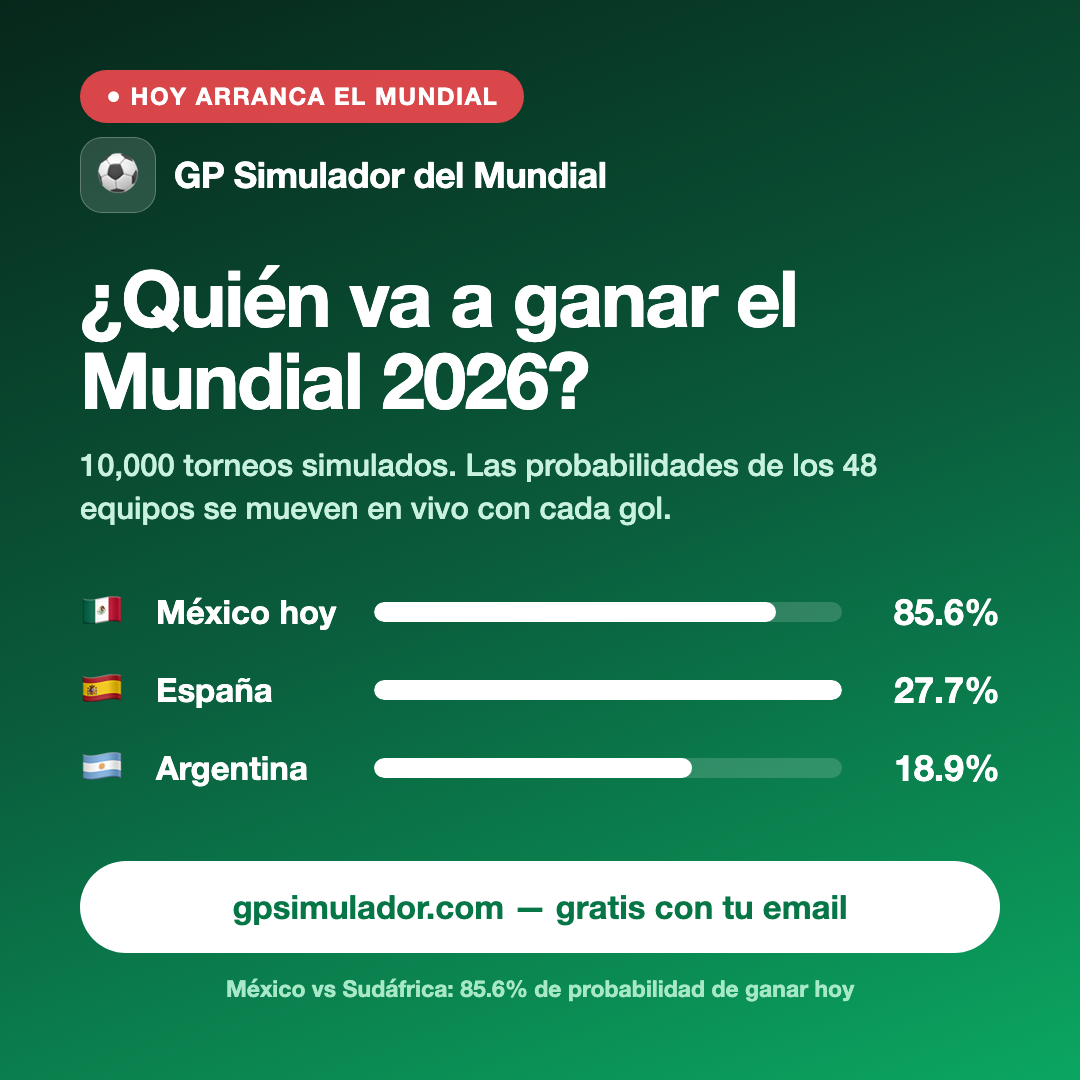
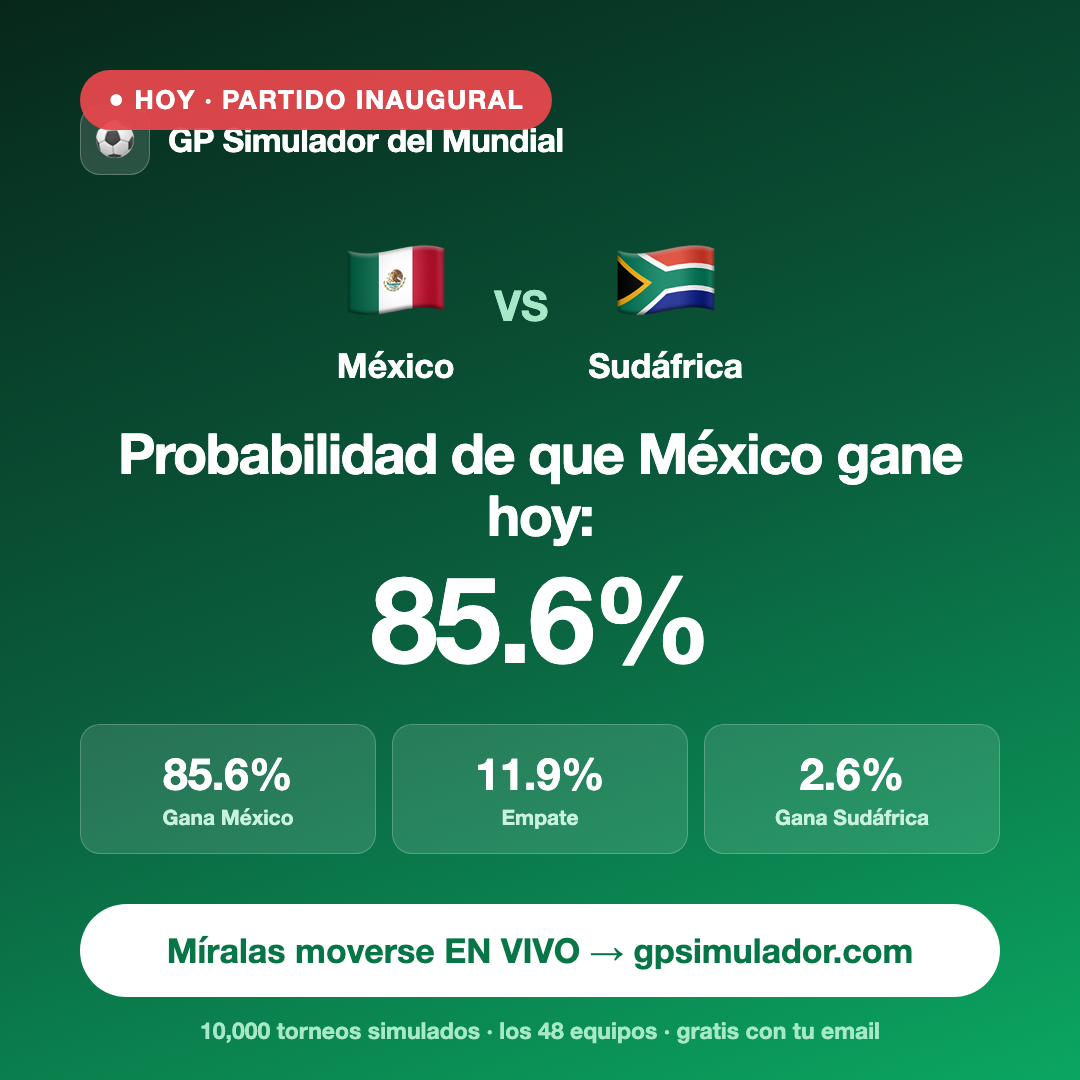
Ad del partido inaugural (MEX vs RSA) + foto de perfil Instagram

diff --git a/ad-card.html b/ad-card.html
@@ -5,37 +5,42 @@ body { width: 1080px; height: 1080px; font-family: -apple-system, 'Helvetica Neu
   background: linear-gradient(160deg, #07271B 0%, #0A5C3C 50%, #0BA661 100%); color: #fff;
   display: flex; flex-direction: column; justify-content: center; padding: 80px; overflow: hidden; position: relative; }
 .live { position: absolute; left: 80px; top: 70px; background: rgba(229,72,77,.95); font-weight: 800;
-  font-size: 24px; padding: 12px 26px; border-radius: 99px; letter-spacing: 1.5px; }
-.brand { display: flex; align-items: center; gap: 18px; margin-bottom: 44px; margin-top: 60px; }
-.badge { width: 76px; height: 76px; border-radius: 22px; background: rgba(255,255,255,.14);
-  display: flex; align-items: center; justify-content: center; font-size: 42px; border: 1px solid rgba(255,255,255,.25); }
-.bname { font-size: 36px; font-weight: 800; letter-spacing: -.5px; }
-h1 { font-size: 78px; font-weight: 800; letter-spacing: -2px; line-height: 1.05; margin-bottom: 22px; }
-.sub { font-size: 31px; color: #C9F2DE; margin-bottom: 54px; font-weight: 500; line-height: 1.4; }
-.rows { display: flex; flex-direction: column; gap: 20px; }
-.row { display: flex; align-items: center; gap: 18px; font-size: 33px; font-weight: 700; }
-.flag { font-size: 44px; width: 58px; }
-.tname { width: 200px; }
-.track { flex: 1; height: 20px; background: rgba(255,255,255,.16); border-radius: 99px; overflow: hidden; }
-.fill { height: 100%; background: #fff; border-radius: 99px; }
-.p { width: 140px; text-align: right; font-size: 36px; font-weight: 800; }
-.cta { margin-top: 64px; background: #fff; color: #067647; font-size: 33px; font-weight: 800;
-  padding: 26px; border-radius: 99px; text-align: center; }
-.foot { margin-top: 22px; text-align: center; font-size: 23px; color: #A7E8C8; font-weight: 600; }
+  font-size: 26px; padding: 14px 28px; border-radius: 99px; letter-spacing: 1.5px; }
+.brand { display: flex; align-items: center; gap: 18px; margin-bottom: 40px; margin-top: 70px; }
+.badge { width: 70px; height: 70px; border-radius: 20px; background: rgba(255,255,255,.14);
+  display: flex; align-items: center; justify-content: center; font-size: 40px; border: 1px solid rgba(255,255,255,.25); }
+.bname { font-size: 33px; font-weight: 800; letter-spacing: -.5px; }
+.match { display: flex; align-items: center; justify-content: center; gap: 40px; margin: 10px 0 36px; }
+.team { text-align: center; }
+.team .f { font-size: 110px; line-height: 1; }
+.team .n { font-size: 34px; font-weight: 800; margin-top: 10px; }
+.vs { font-size: 42px; font-weight: 800; color: #A7E8C8; }
+h1 { font-size: 56px; font-weight: 800; letter-spacing: -1.5px; line-height: 1.1; text-align: center; margin-bottom: 40px; }
+h1 .big { font-size: 120px; display: block; letter-spacing: -3px; margin-top: 6px; }
+.probs { display: flex; gap: 16px; margin-bottom: 50px; }
+.pb { flex: 1; background: rgba(255,255,255,.12); border: 1px solid rgba(255,255,255,.22); border-radius: 20px; padding: 22px; text-align: center; }
+.pb .v { font-size: 44px; font-weight: 800; }
+.pb .l { font-size: 21px; color: #C9F2DE; font-weight: 600; margin-top: 4px; }
+.cta { background: #fff; color: #067647; font-size: 34px; font-weight: 800; padding: 26px; border-radius: 99px; text-align: center; }
+.foot { margin-top: 20px; text-align: center; font-size: 23px; color: #A7E8C8; font-weight: 600; }
 </style></head>
 <body>
-  <div class="live">● HOY ARRANCA EL MUNDIAL</div>
+  <div class="live">● HOY · PARTIDO INAUGURAL</div>
   <div class="brand">
     <div class="badge">⚽</div>
     <div class="bname">GP Simulador del Mundial</div>
   </div>
-  <h1>¿Quién va a ganar el Mundial 2026?</h1>
-  <div class="sub">10,000 torneos simulados. Las probabilidades de los 48 equipos se mueven en vivo con cada gol.</div>
-  <div class="rows">
-    <div class="row"><span class="flag">🇲🇽</span><span class="tname">México hoy</span><div class="track"><div class="fill" style="width:86%"></div></div><span class="p">85.6%</span></div>
-    <div class="row"><span class="flag">🇪🇸</span><span class="tname">España</span><div class="track"><div class="fill" style="width:100%"></div></div><span class="p">27.7%</span></div>
-    <div class="row"><span class="flag">🇦🇷</span><span class="tname">Argentina</span><div class="track"><div class="fill" style="width:68%"></div></div><span class="p">18.9%</span></div>
+  <div class="match">
+    <div class="team"><div class="f">🇲🇽</div><div class="n">México</div></div>
+    <div class="vs">VS</div>
+    <div class="team"><div class="f">🇿🇦</div><div class="n">Sudáfrica</div></div>
   </div>
-  <div class="cta">gpsimulador.com — gratis con tu email</div>
-  <div class="foot">México vs Sudáfrica: 85.6% de probabilidad de ganar hoy</div>
+  <h1>Probabilidad de que México gane hoy:<span class="big">85.6%</span></h1>
+  <div class="probs">
+    <div class="pb"><div class="v">85.6%</div><div class="l">Gana México</div></div>
+    <div class="pb"><div class="v">11.9%</div><div class="l">Empate</div></div>
+    <div class="pb"><div class="v">2.6%</div><div class="l">Gana Sudáfrica</div></div>
+  </div>
+  <div class="cta">Míralas moverse EN VIVO → gpsimulador.com</div>
+  <div class="foot">10,000 torneos simulados · los 48 equipos · gratis con tu email</div>
 </body></html>

diff --git a/avatar-card.html b/avatar-card.html
@@ -1,0 +1,18 @@
+<!DOCTYPE html>
+<html><head><meta charset="utf-8"><style>
+* { margin: 0; padding: 0; box-sizing: border-box; }
+body { width: 1080px; height: 1080px; font-family: -apple-system, 'Helvetica Neue', Arial, sans-serif;
+  background: radial-gradient(circle at 30% 25%, #0BA661 0%, #0A5C3C 55%, #07271B 100%);
+  display: flex; flex-direction: column; align-items: center; justify-content: center; overflow: hidden; position: relative; }
+.ring { position: absolute; width: 920px; height: 920px; border-radius: 50%; border: 3px solid rgba(255,255,255,.18); }
+.ball { font-size: 200px; line-height: 1; margin-bottom: 8px; filter: drop-shadow(0 14px 30px rgba(0,0,0,.35)); }
+.gp { font-size: 300px; font-weight: 800; color: #fff; letter-spacing: -12px; line-height: .95;
+  text-shadow: 0 10px 36px rgba(0,0,0,.3); }
+.sub { margin-top: 18px; font-size: 44px; font-weight: 800; color: #C9F2DE; letter-spacing: 6px; }
+</style></head>
+<body>
+  <div class="ring"></div>
+  <div class="ball">⚽</div>
+  <div class="gp">GP</div>
+  <div class="sub">SIMULADOR</div>
+</body></html>
